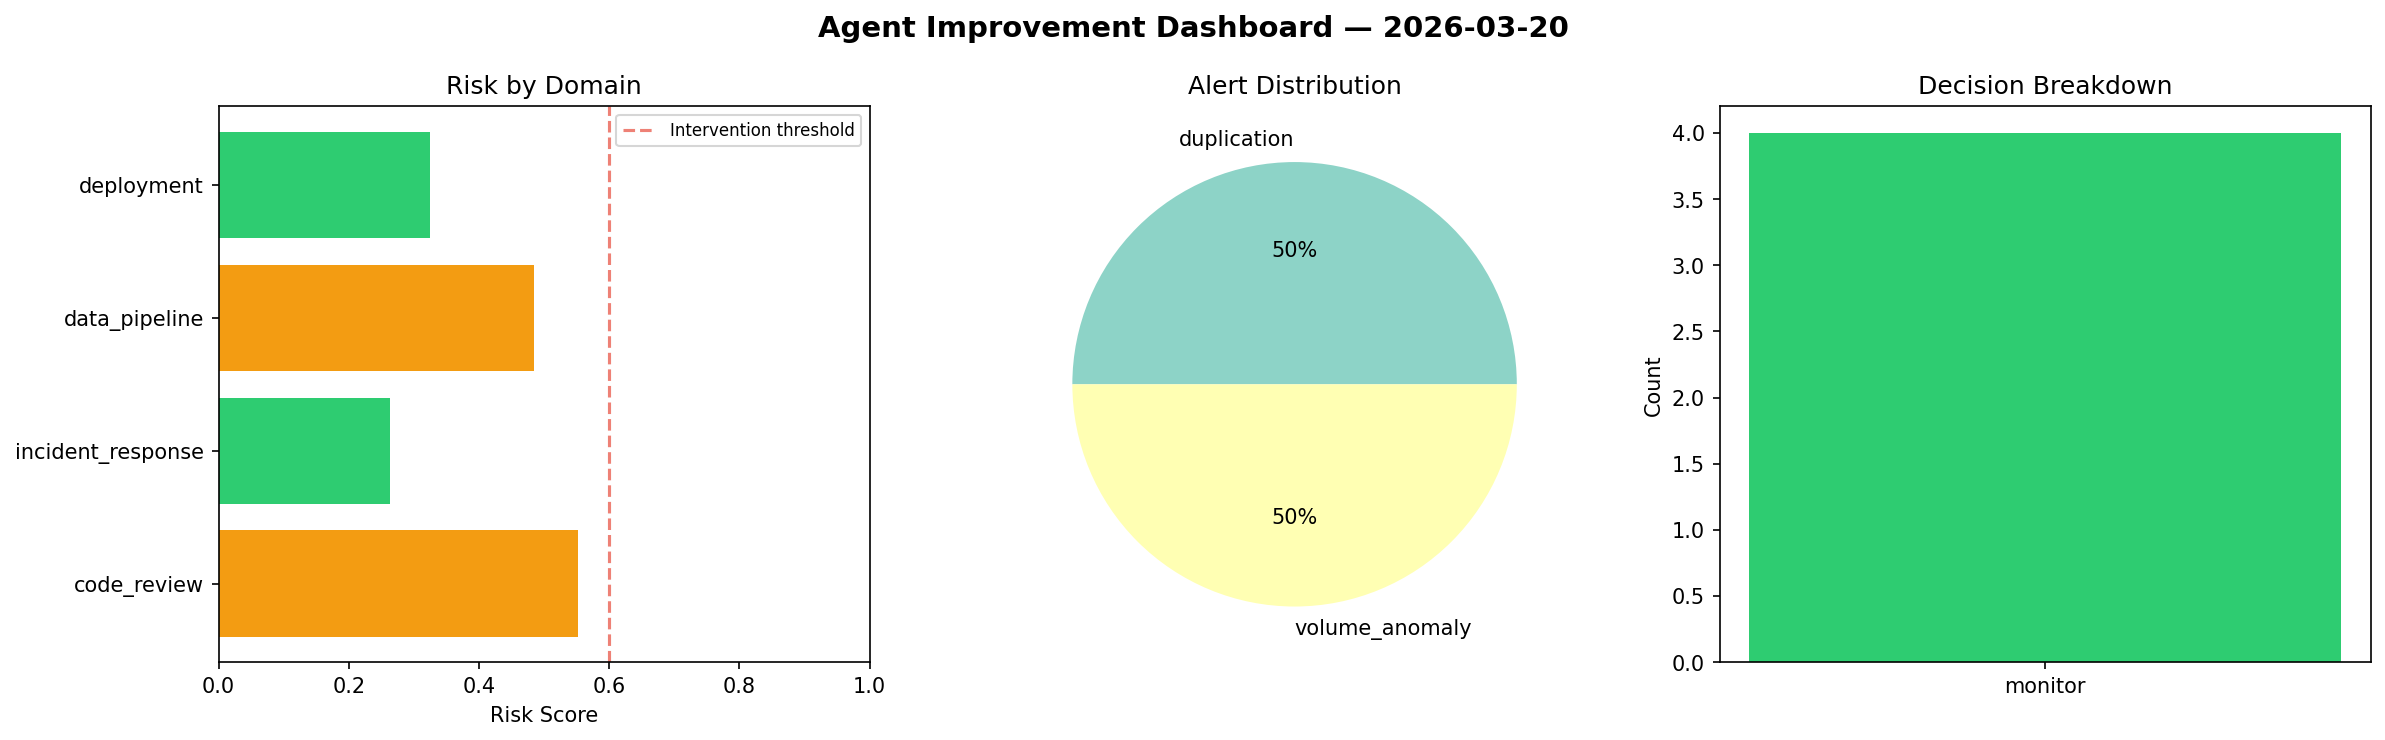
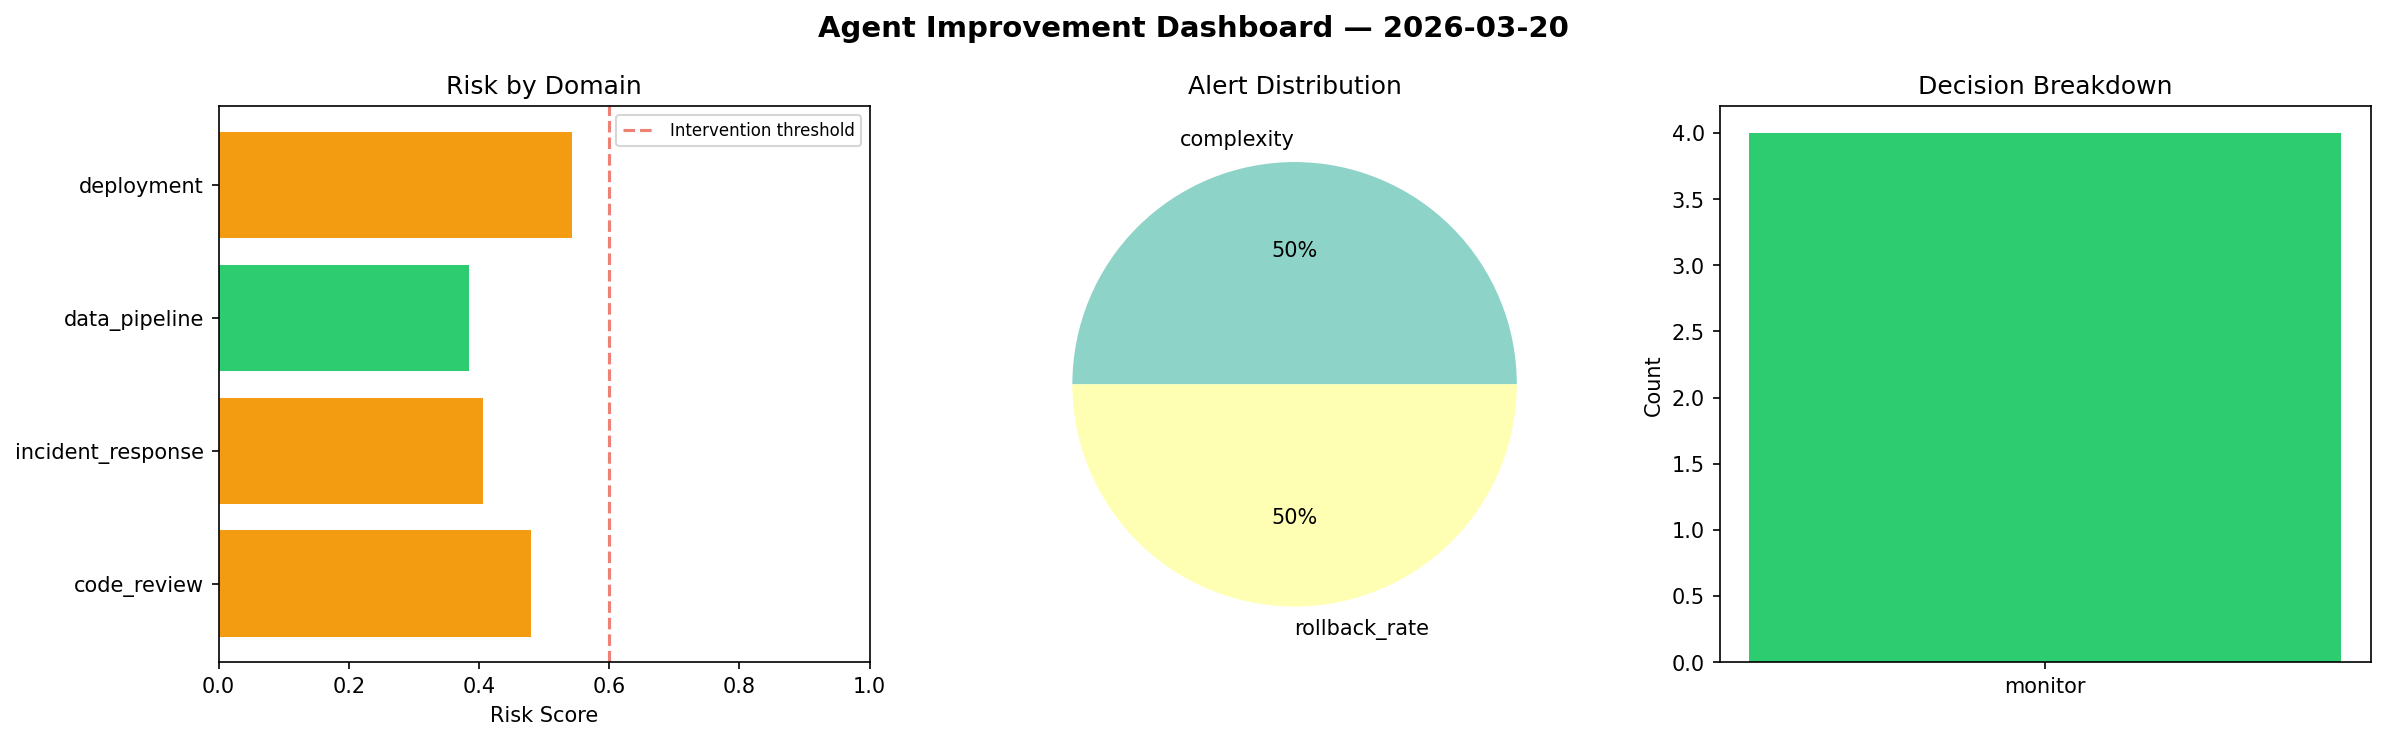
agent-improvement: daily cycle 2026-03-20T20:49

diff --git a/logs/2026-03-20.md b/logs/2026-03-20.md
@@ -1,6 +1,6 @@
 # Agent Improvement Report — 2026-03-20
 
-**Cycle ID:** `9c1d12a4` | **Avg Risk:** 0.4063 | **Interventions:** 0/4
+**Cycle ID:** `4c84509e` | **Avg Risk:** 0.4535 | **Interventions:** 0/4
 
 ![Dashboard](2026-03-20_dashboard.png)
 
@@ -10,18 +10,18 @@
 
 | Domain | Risk Score | Decision | Alerts |
 |--------|-----------|----------|--------|
-| code_review | 0.5528 | monitor | duplication |
-| incident_response | 0.2631 | monitor | none |
-| data_pipeline | 0.4845 | monitor | volume_anomaly |
-| deployment | 0.3249 | monitor | none |
+| code_review | 0.4806 | monitor | complexity |
+| incident_response | 0.4064 | monitor | none |
+| data_pipeline | 0.3847 | monitor | none |
+| deployment | 0.5422 | monitor | rollback_rate |
 
 ## Delta vs Yesterday
 
 | Domain | Today | Yesterday | Change |
 |--------|-------|-----------|--------|
-| code_review | 0.5528 | 0.3718 | 📈 48.7% |
-| incident_response | 0.2631 | 0.4051 | 📉 -35.1% |
-| data_pipeline | 0.4845 | 0.8192 | 📉 -40.9% |
-| deployment | 0.3249 | 0.3594 | 📉 -9.6% |
+| code_review | 0.4806 | 0.3718 | 📈 29.3% |
+| incident_response | 0.4064 | 0.4051 | 📈 0.3% |
+| data_pipeline | 0.3847 | 0.8192 | 📉 -53.0% |
+| deployment | 0.5422 | 0.3594 | 📈 50.9% |
 
-**Refinement:** `{'adjustment': 'maintain', 'trend': 'improving', 'window': 4}`
+**Refinement:** `{'adjustment': 'tighten_thresholds', 'trend': 'degrading', 'window': 4}`
